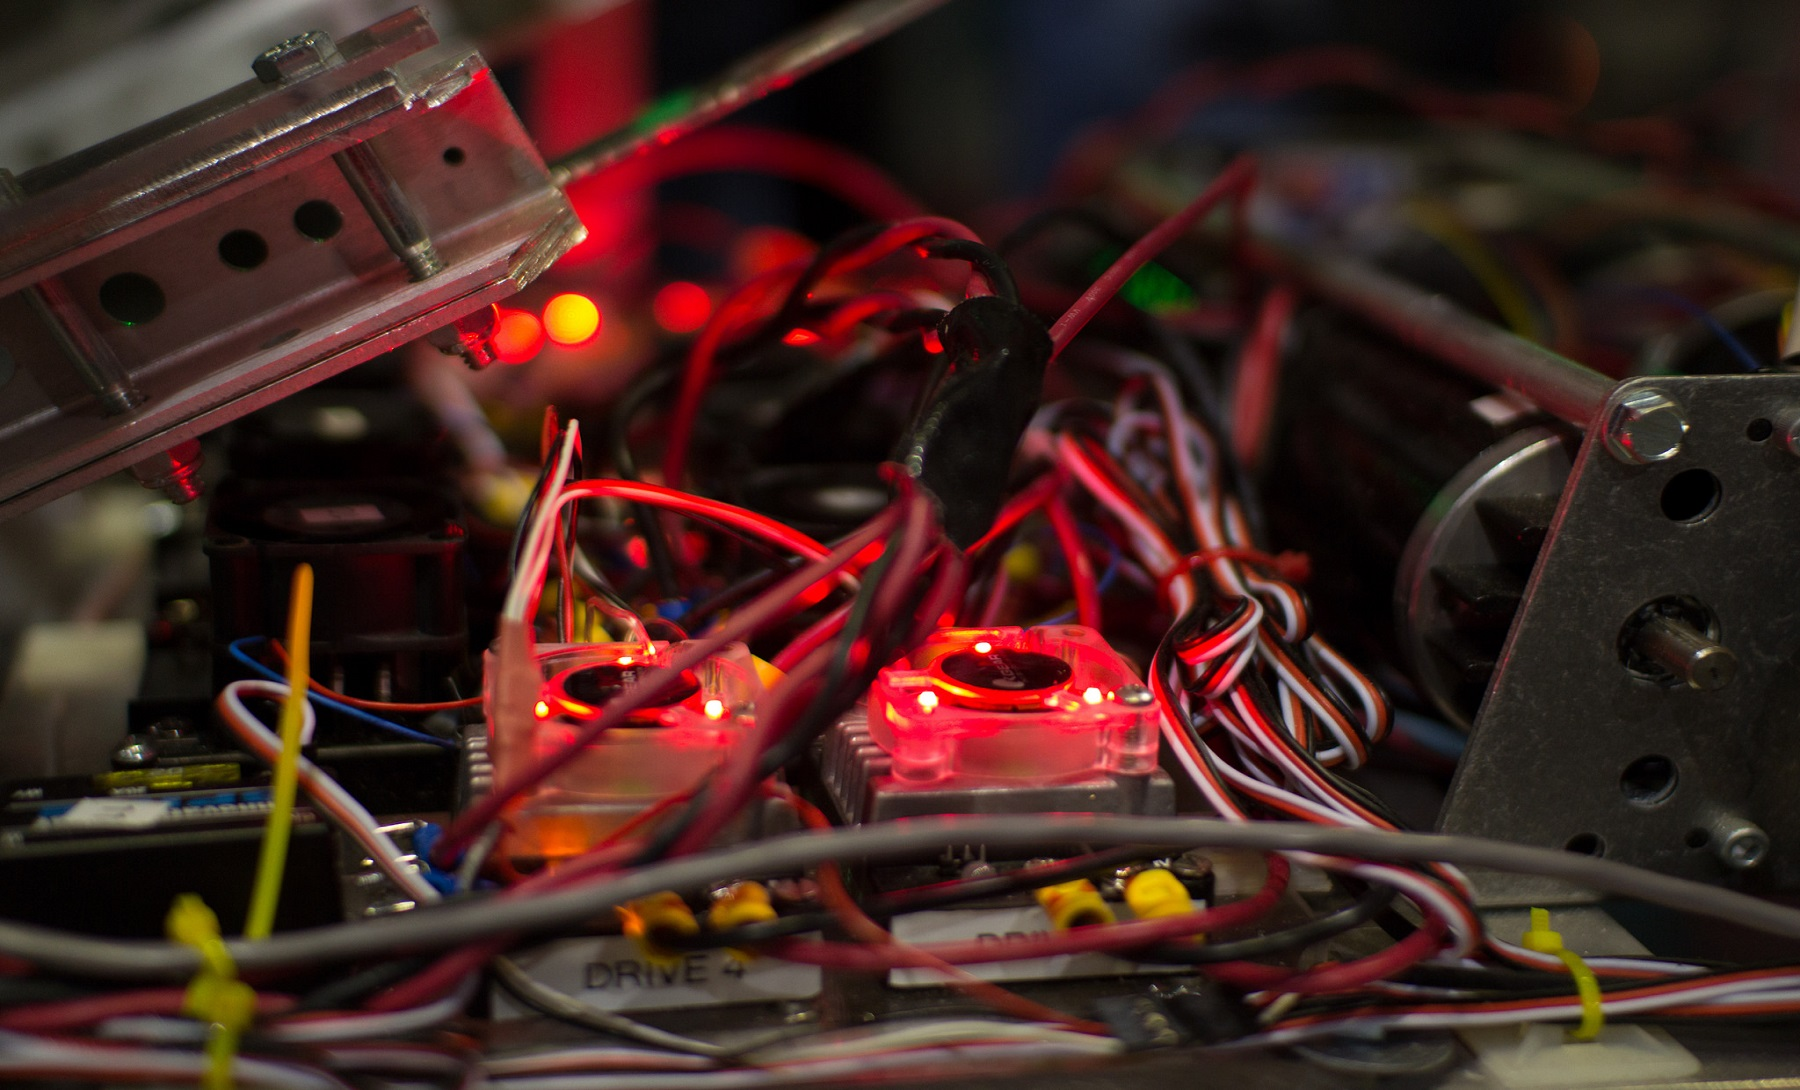
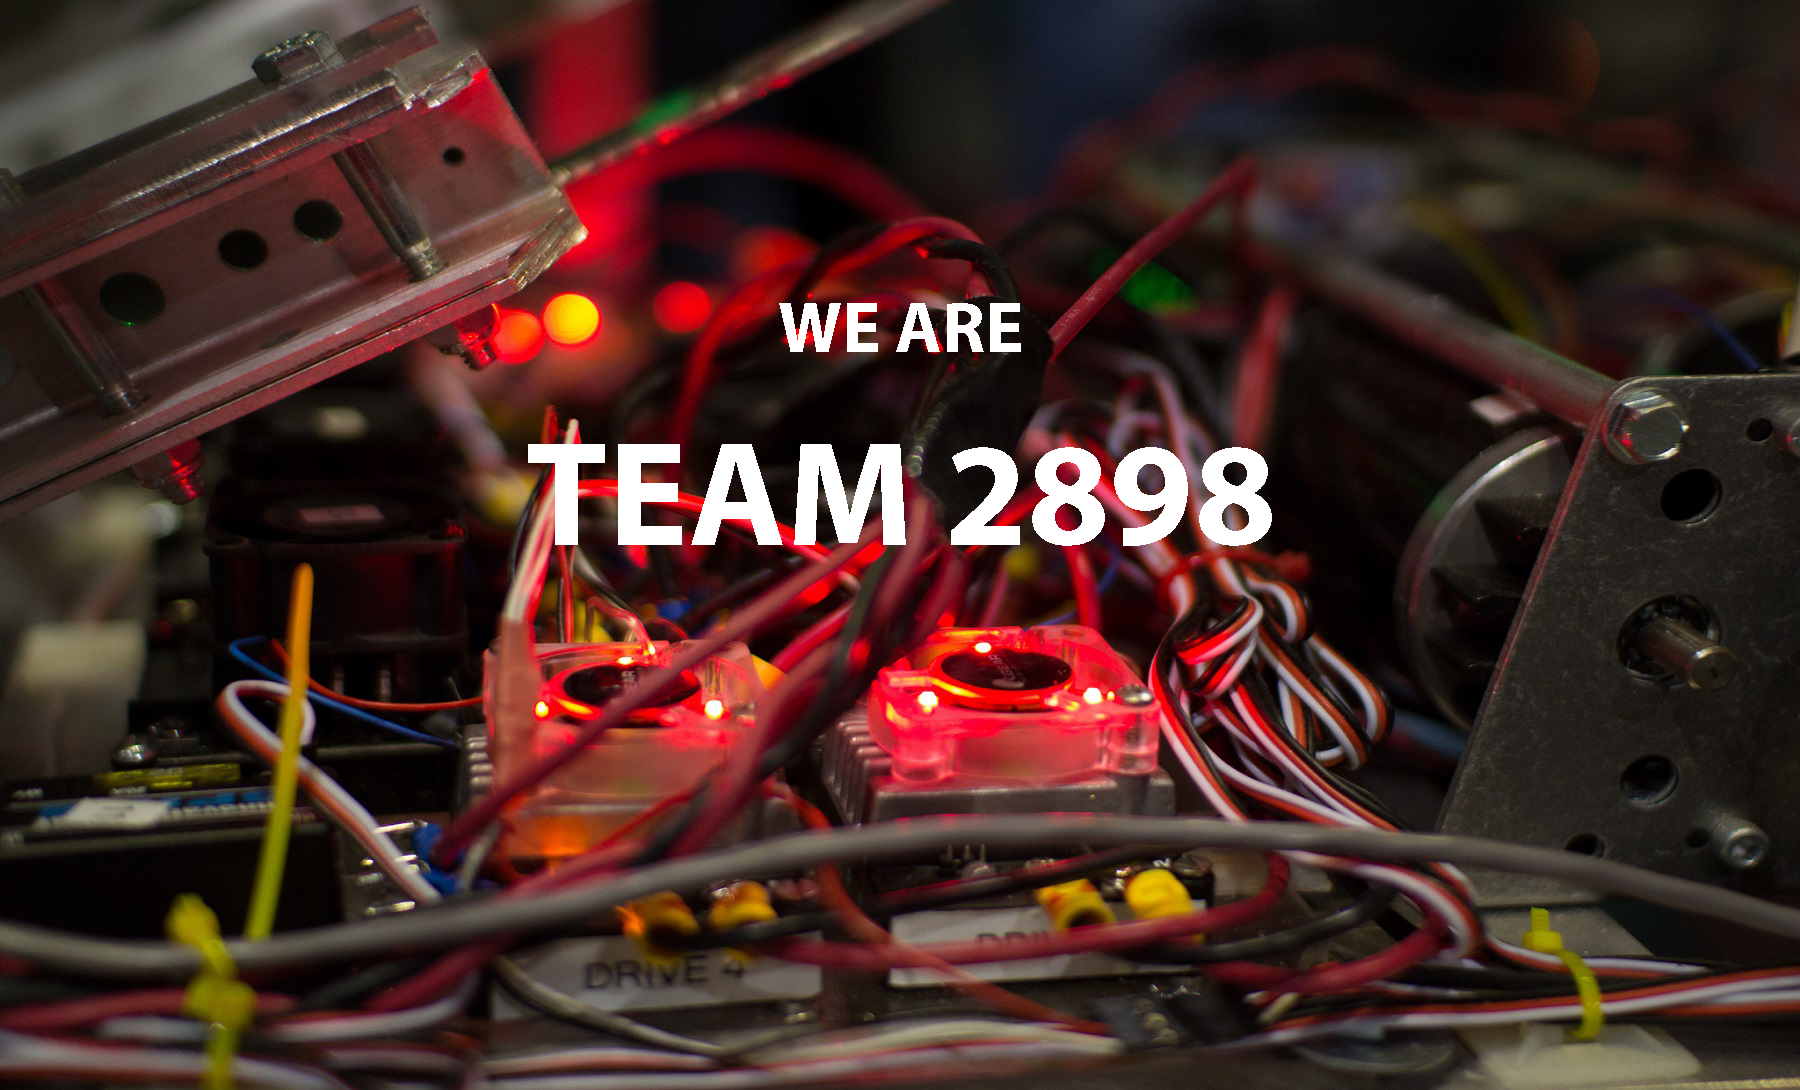
First revision of the front page done

Changed region(s): [[0.28, 0.4055, 0.7156, 0.4991], [0.4356, 0.2807, 0.56, 0.3431]]

diff --git a/robots.html b/robots.html
@@ -42,74 +42,26 @@
                     <span class="icon-bar"></span>
                     <span class="icon-bar"></span>
                 </button>
-                <a class="navbar-brand" href="index.html">Start Bootstrap</a>
+                <a class="navbar-brand" href="index.html">Team 2898</a>
             </div>
             <!-- Collect the nav links, forms, and other content for toggling -->
             <div class="collapse navbar-collapse" id="bs-example-navbar-collapse-1">
                 <ul class="nav navbar-nav navbar-right">
-                    <li class="active">
-                        <a href="about.html">About</a>
-                    </li>
-                    <li>
-                        <a href="services.html">Services</a>
-                    </li>
-                    <li>
-                        <a href="contact.html">Contact</a>
-                    </li>
-                    <li class="dropdown">
-                        <a href="#" class="dropdown-toggle" data-toggle="dropdown">Portfolio <b class="caret"></b></a>
-                        <ul class="dropdown-menu">
-                            <li>
-                                <a href="portfolio-1-col.html">1 Column Portfolio</a>
-                            </li>
-                            <li>
-                                <a href="portfolio-2-col.html">2 Column Portfolio</a>
-                            </li>
-                            <li>
-                                <a href="portfolio-3-col.html">3 Column Portfolio</a>
-                            </li>
-                            <li>
-                                <a href="portfolio-4-col.html">4 Column Portfolio</a>
-                            </li>
-                            <li>
-                                <a href="portfolio-item.html">Single Portfolio Item</a>
-                            </li>
-                        </ul>
-                    </li>
-                    <li class="dropdown">
-                        <a href="#" class="dropdown-toggle" data-toggle="dropdown">Blog <b class="caret"></b></a>
-                        <ul class="dropdown-menu">
-                            <li>
-                                <a href="blog-home-1.html">Blog Home 1</a>
-                            </li>
-                            <li>
-                                <a href="blog-home-2.html">Blog Home 2</a>
-                            </li>
-                            <li>
-                                <a href="blog-post.html">Blog Post</a>
-                            </li>
-                        </ul>
-                    </li>
-                    <li class="dropdown">
-                        <a href="#" class="dropdown-toggle" data-toggle="dropdown">Other Pages <b class="caret"></b></a>
-                        <ul class="dropdown-menu">
-                            <li>
-                                <a href="full-width.html">Full Width Page</a>
-                            </li>
-                            <li>
-                                <a href="sidebar.html">Sidebar Page</a>
-                            </li>
-                            <li>
-                                <a href="faq.html">FAQ</a>
-                            </li>
-                            <li>
-                                <a href="404.html">404</a>
-                            </li>
-                            <li>
-                                <a href="pricing.html">Pricing Table</a>
-                            </li>
-                        </ul>
-                    </li>
+                  <li>
+                      <a href="robots.html">Robots</a>
+                  </li>
+                  <li>
+                      <a href="awards.html">Awards</a>
+                  </li>
+                  <li>
+                      <a href="outreach.html">Outreach</a>
+                  </li>
+                  <li>
+                      <a href="sponsors.html">Sponsors</a>
+                  </li>
+                  <li>
+                      <a href="students.html">Students</a>
+                  </li>
                 </ul>
             </div>
             <!-- /.navbar-collapse -->
@@ -121,6 +73,7 @@
     <div class="container">
 
         <!-- Page Heading/Breadcrumbs -->
+        <br>
         <div class="row">
             <div class="col-lg-12">
                 <h1 class="page-header">Our Current Robot
@@ -129,7 +82,7 @@
                 <ol class="breadcrumb">
                     <li><a href="index.html">Home</a>
                     </li>
-                    <li class="active">About</li>
+                    <li class="active">Robot</li>
                 </ol>
             </div>
         </div>
@@ -143,8 +96,6 @@
             <div class="col-md-6">
                 <h2>BunnyBots 2016</h2>
                 <p>Lorem ipsum dolor sit amet, consectetur adipisicing elit. Sed voluptate nihil eum consectetur similique? Consectetur, quod, incidunt, harum nisi dolores delectus reprehenderit voluptatem perferendis dicta dolorem non blanditiis ex fugiat.</p>
-                <p>Lorem ipsum dolor sit amet, consectetur adipisicing elit. Saepe, magni, aperiam vitae illum voluptatum aut sequi impedit non velit ab ea pariatur sint quidem corporis eveniet. Odit, temporibus reprehenderit dolorum!</p>
-                <p>Lorem ipsum dolor sit amet, consectetur adipisicing elit. Et, consequuntur, modi mollitia corporis ipsa voluptate corrupti eum ratione ex ea praesentium quibusdam? Aut, in eum facere corrupti necessitatibus perspiciatis quis?</p>
             </div>
         </div>
         <!-- /.row -->

diff --git a/index.html b/index.html
@@ -67,7 +67,6 @@
             <li data-target="#myCarousel" data-slide-to="0" class="active"></li>
             <li data-target="#myCarousel" data-slide-to="1"></li>
             <li data-target="#myCarousel" data-slide-to="2"></li>
-            <li data-target="#myCarousel" data-slide-to="3"></li>
         </ol>
 
         <!-- Wrapper for slides -->
@@ -75,7 +74,7 @@
             <div class="item active">
                 <div class="fill" style=background-image:url("images/lights.JPG");></div>
                 <div class="carousel-caption">
-                    <h2>We are 2898</h2>
+                    <h2>Scroll Down For More</h2>
                 </div>
             </div>
             <div class="item">
@@ -85,15 +84,9 @@
                 </div>
             </div>
             <div class="item">
-                <div class="fill" style="background-image:url('images/Team2.JPG');"></div>
-                <div class="carousel-caption">
-                    <h2>Our Robot</h2>
-                </div>
-            </div>
-            <div class="item">
                 <div class="fill" style="background-image:url('images/Bot3.JPG');"></div>
                 <div class="carousel-caption">
-                    <h2>Caption 4</h2>
+                    <h2>Our Bot</h2>
                 </div>
             </div>
         </div>
@@ -144,17 +137,17 @@
             <div class="col-md-4">
                 <div class="panel panel-default">
                     <div class="panel-heading">
-                        <h4><i class="fa fa-fw fa-check"></i>Hedgehogs Sponsors</h4>
+                        <h4><i class="fa fa-fw fa-money"></i> Hedgehogs Sponsors</h4>
                     </div>
                     <div class="panel-body">
-                        <p>Thanks to the sponsors who have been with us from the begininng and new sponsors who just came on board with us. Without sponsors the the team would not have been nearly as successful.</p>
+                        <p>Thanks to all our sponsors! Wether they have been with us from the begininng or just getting on board, the team would not have been possible without them!</p>
                     </div>
                 </div>
             </div>
             <div class="col-md-4">
                 <div class="panel panel-default">
                     <div class="panel-heading">
-                        <h4><i class="fa fa-fw fa-gift"></i>Outreach</h4>
+                        <h4><i class="fa fa-fw fa-users"></i> Outreach</h4>
                     </div>
                     <div class="panel-body">
                         <p>Team 2898 The Flying Hedgehogs is activly involved in our community wether it is at the compettion or spreading awarness of FIRST and Robotics</p>
@@ -164,10 +157,10 @@
             <div class="col-md-4">
                 <div class="panel panel-default">
                     <div class="panel-heading">
-                        <h4><i class="fa fa-fw fa-compass"></i>Awards</h4>
+                        <h4><i class="fa fa-fw fa-trophy"></i> Awards</h4>
                     </div>
                     <div class="panel-body">
-                        <p>Lorem ipsum dolor sit amet, consectetur adipisicing elit. Itaque, optio corporis quae nulla aspernatur in alias at numquam rerum ea excepturi expedita tenetur assumenda voluptatibus eveniet incidunt dicta nostrum quod?</p>
+                        <p>The team has received numerous avards, including the 2010 Microsoft Seattle Regional Finalist and the 2009 Oregon Regional Finalist</p>
                         <!--<a href="#" class="btn btn-default">Learn More</a>-->
                     </div>
                 </div>
